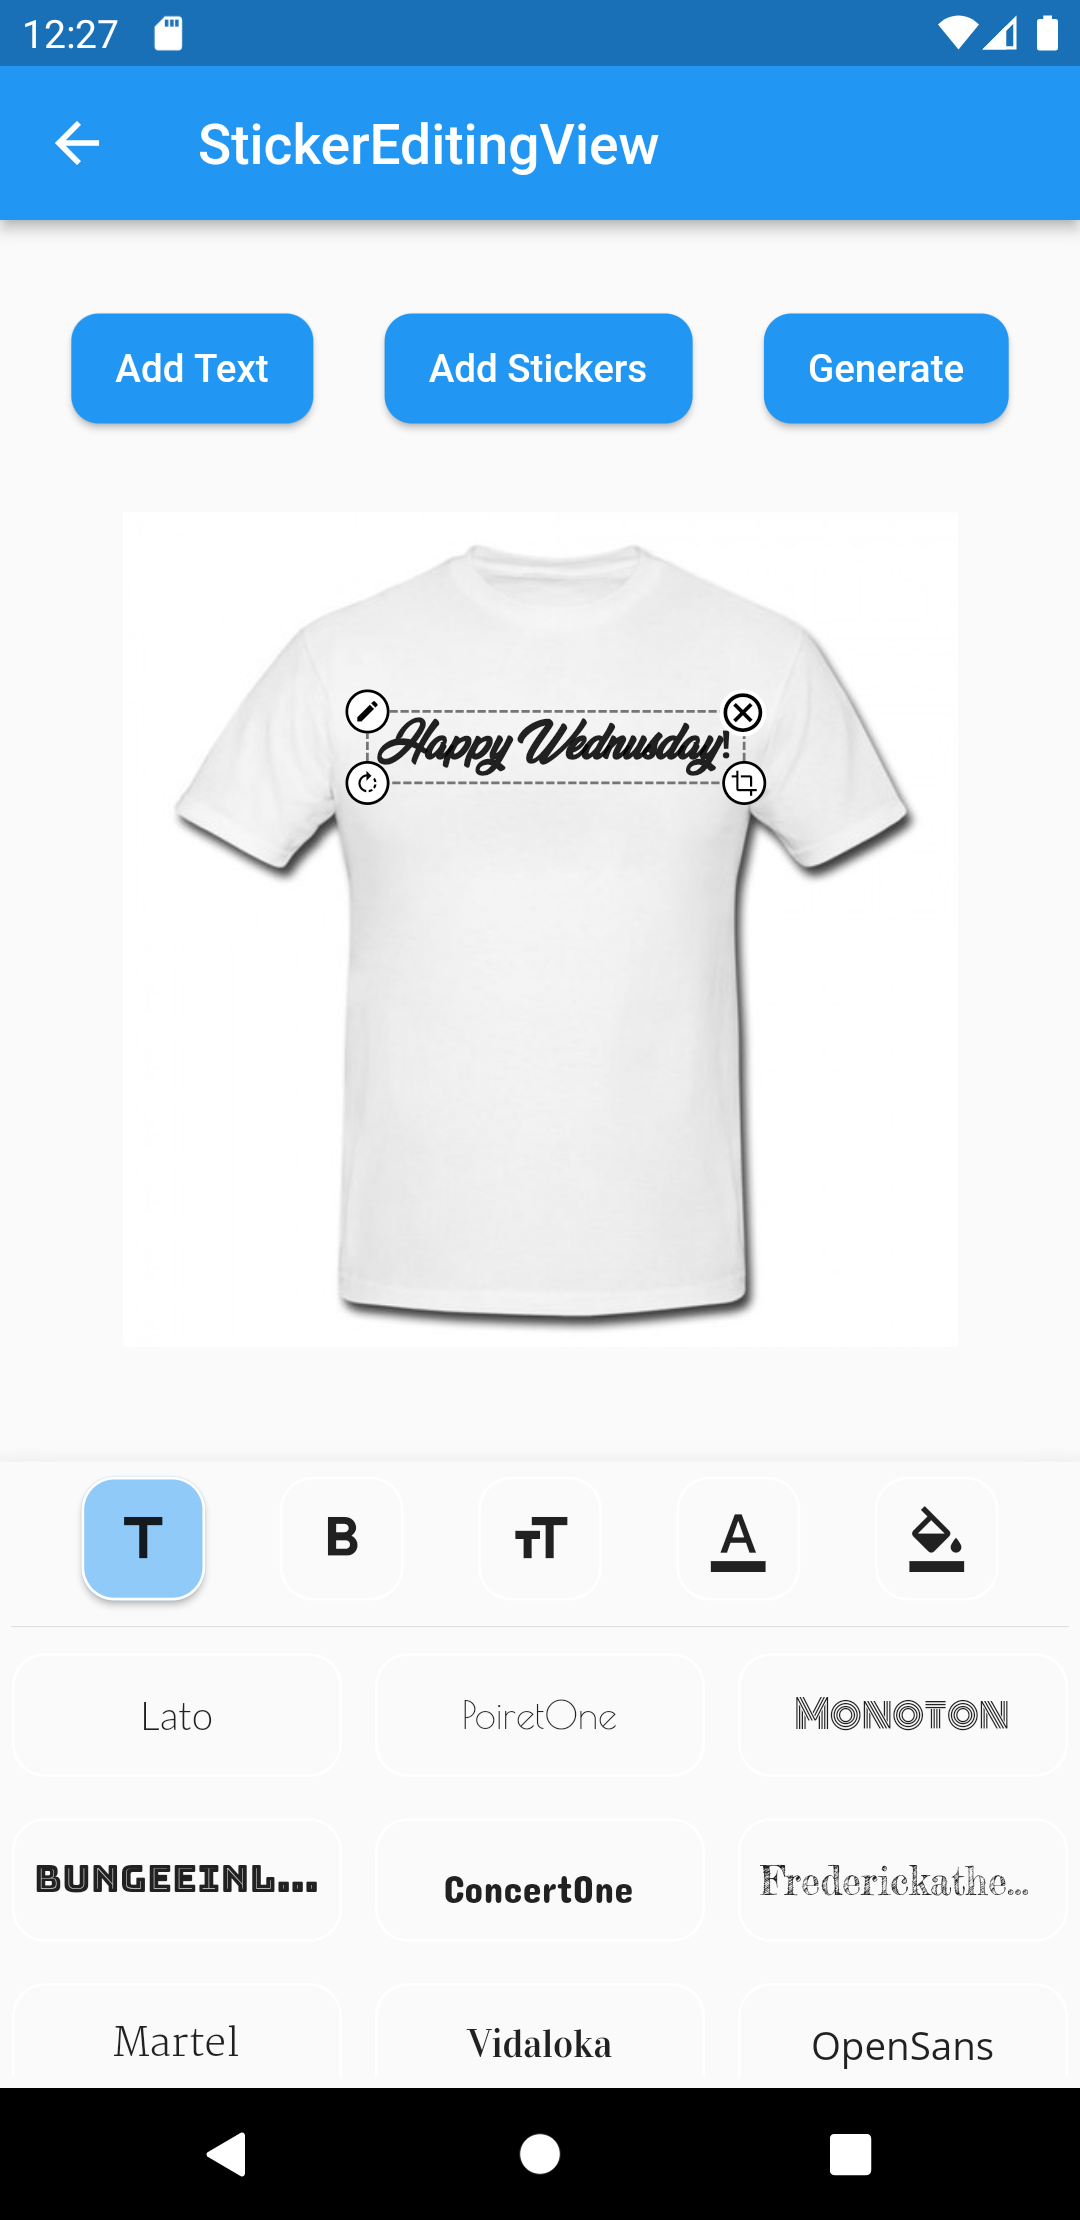
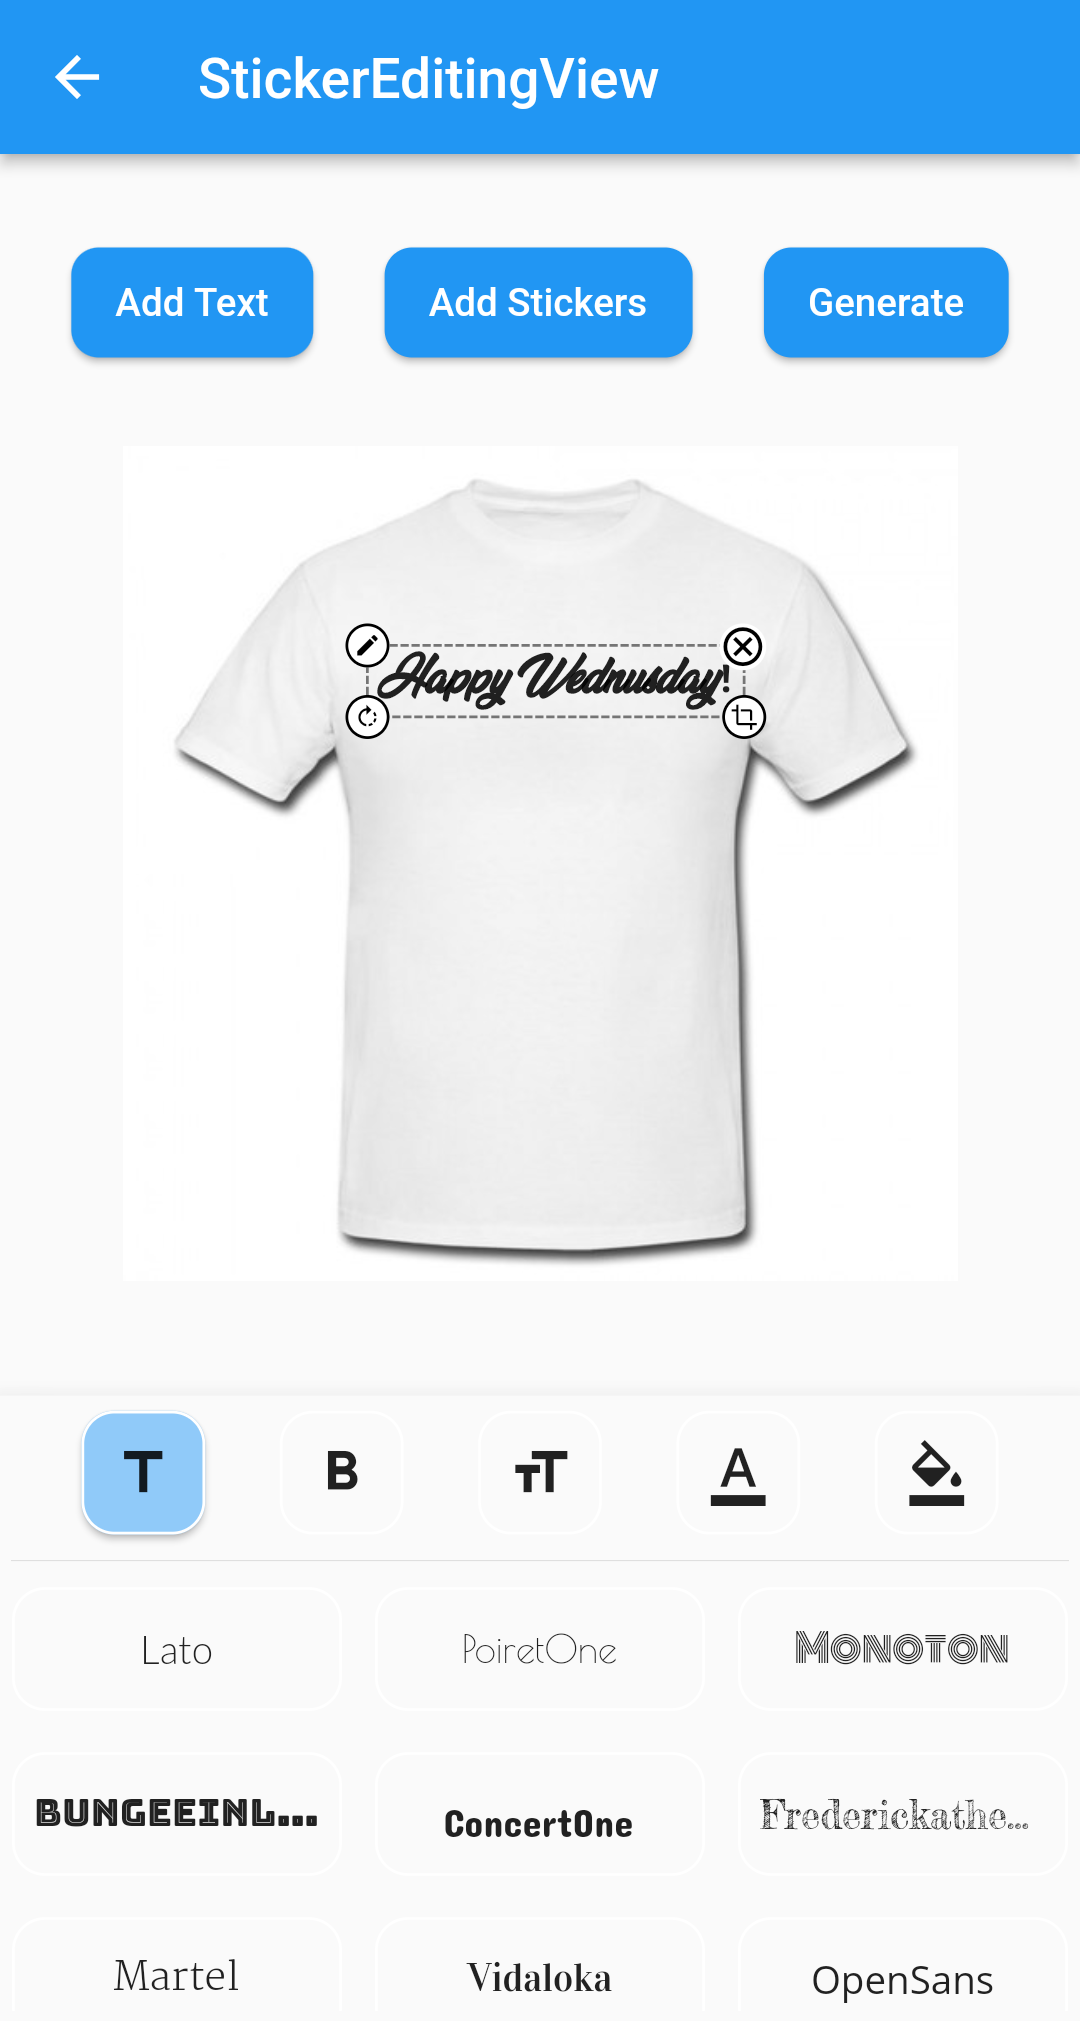
readme file and text editor box issue solved

diff --git a/lib/stickereditor.dart b/lib/stickereditor.dart
@@ -35,10 +35,29 @@ class StickerEditingView extends StatefulWidget {
 
   /// Editor's assetsList List
   List<String>? assetList;
+
+  /// Editor's image type
+  bool isnetwork;
+
+  /// Editor's image
+  String imgUrl;
+
+  /// StickerEditor View Height
+  double? height;
+
+  /// StickerEditor View Width
+  double? width;
+
+  /// Create a [StickerEditingBox] widget
+  ///
   StickerEditingView(
       {Key? key,
       required this.fonts,
       this.palletColor,
+      this.height,
+      this.width,
+      required this.isnetwork,
+      required this.imgUrl,
       required this.assetList})
       : super(key: key);
 
@@ -48,7 +67,6 @@ class StickerEditingView extends StatefulWidget {
 
 class _StickerEditingViewState extends State<StickerEditingView> {
   // image source
-  String backgroundImage = 'assets/t-shirt.jpeg';
   ScreenshotController screenshotController = ScreenshotController();
   String fileName = '';
   String imagePath = '';
@@ -97,15 +115,34 @@ class _StickerEditingViewState extends State<StickerEditingView> {
               child: Screenshot(
                 controller: screenshotController,
                 child: SizedBox(
-                  height: height * .40,
-                  width: width * .78,
+                  height: widget.height ?? height * .40,
+                  width: widget.width ?? width * .78,
                   child: Stack(
                     children: [
-                      Image.asset(
-                        'assets/t-shirt.jpeg',
-                        package: 'stickereditor',
-                        height: height * .40,
-                        width: width * .78,
+                      widget.isnetwork
+                          ? Image.network(
+                              widget.imgUrl,
+                              height: widget.height ?? height * .40,
+                              width: widget.width ?? width * .78,
+                              fit: BoxFit.cover,
+                            )
+                          : Image.asset(
+                              widget.imgUrl,
+                              height: widget.height ?? height * .40,
+                              width: widget.width ?? width * .78,
+                              fit: BoxFit.cover,
+                            ),
+                      InkWell(
+                        onTap: () {
+                          setState(() {
+                            for (var element in newStringList) {
+                              element.isSelected = false;
+                            }
+                            for (var e in newimageList) {
+                              e.isSelected = false;
+                            }
+                          });
+                        },
                       ),
                       ...newStringList.map((v) {
                         return TextEditingBox(
@@ -141,6 +178,29 @@ class _StickerEditingViewState extends State<StickerEditingView> {
                       }).toList(),
                       ...newimageList.map((v) {
                         return StickerEditingBox(
+                            onCancel: () {
+                              int index = newimageList
+                                  .indexWhere((element) => v == element);
+
+                              newimageList.removeAt(index);
+                            },
+                            onTap: () {
+                              if (!v.isSelected) {
+                                setState(() {
+                                  for (var element in newStringList) {
+                                    element.isSelected = false;
+                                  }
+                                  for (var e in newimageList) {
+                                    e.isSelected = false;
+                                  }
+                                  v.isSelected = true;
+                                });
+                              } else {
+                                setState(() {
+                                  v.isSelected = false;
+                                });
+                              }
+                            },
                             boundWidth: width * .70,
                             boundHeight: height * .30,
                             pictureModel: v);
@@ -195,10 +255,22 @@ class _StickerEditingViewState extends State<StickerEditingView> {
                         Future.delayed(const Duration(milliseconds: 200),
                             () async {
                           imagePath = '';
+                          if (Platform.isMacOS) {
+                            imagePath =
+                                (await getApplicationDocumentsDirectory())
+                                    .path
+                                    .trim(); //from path_provide package
+                          } else if (Platform.isAndroid) {
+                            imagePath = (await getExternalStorageDirectory())!
+                                .path
+                                .trim(); //from path_provide package
 
-                          imagePath = (await getExternalStorageDirectory())!
-                              .path
-                              .trim(); //from path_provide package
+                          } else if (Platform.isIOS) {
+                            imagePath =
+                                (await getApplicationDocumentsDirectory())
+                                    .path
+                                    .trim();
+                          }
 
                           Random().nextInt(15000);
                           fileName = '${Random().nextInt(15000)}.png';
@@ -254,6 +326,7 @@ class _StickerEditingViewState extends State<StickerEditingView> {
                         e.isSelected = false;
                       }
                       textModel!.isSelected = true;
+                      textModel.name = dailogTextController.text.trim();
                       newStringList.add(textModel);
                     });
                     Navigator.pop(context);

diff --git a/lib/src/widgets/text_widget/text_box.dart b/lib/src/widgets/text_widget/text_box.dart
@@ -9,14 +9,35 @@ import 'textstyle_editor.dart';
 
 // ignore: must_be_immutable
 class TextEditingBox extends StatefulWidget {
+  // TextModel for your text
   final TextModel newText;
+
+  /// Your widget should be move within this [boundWidth]
   final double boundWidth;
+
+  /// Your widget should be move within this [boundHeight]
   final double boundHeight;
+
+  /// For Visibility of editing border
   bool isSelected;
+
+  /// Total Colors option that you want to give to user
   List<Color>? palletColor;
+
+  /// Total Fonts option that you want to give to user
   final List<String> fonts;
+
+  /// If you use onTap then you Have to manage IsSelected field in TextModel and [isSelected]
   final Function()? onTap;
+
+  /// If you use onCancel then you Have to manage IsSelected field in TextModel and [isSelected]
   final Function()? onCancel;
+
+  /// Create a [TextEditingBox] widget
+  ///
+  /// [TextModel] detail of your picture
+  /// [onTap] callback function that called when you tap on [TextEditingBox]
+  /// [onCancel] callback function that called when you tap on Cross icon in [TextEditingBox] border
   TextEditingBox(
       {Key? key,
       required this.newText,
@@ -163,13 +184,16 @@ class _TextEditingBoxState extends State<TextEditingBox> {
                       if (widget.onCancel != null) {
                         widget.onCancel!();
                       }
-                      if (widget.isSelected) {
-                        widget.isSelected = false;
-                        widget.newText.isSelected = false;
-                      } else {
-                        widget.isSelected = true;
-                        widget.newText.isSelected = true;
-                      }
+
+                      setState(() {
+                        if (widget.isSelected) {
+                          widget.isSelected = false;
+                          widget.newText.isSelected = false;
+                        } else {
+                          widget.isSelected = true;
+                          widget.newText.isSelected = true;
+                        }
+                      });
                     },
                     child: widget.isSelected
                         ? Container(
@@ -275,7 +299,7 @@ class _TextEditingBoxState extends State<TextEditingBox> {
         builder: (context) {
           return Container(
             padding: const EdgeInsets.all(4),
-            height: height * .3,
+            height: height * .35,
             child: TextStyleEditor(
               fonts: widget.fonts,
               paletteColors: palletColor,

diff --git a/lib/src/widgets/sticker_widget/sticker_box.dart b/lib/src/widgets/sticker_widget/sticker_box.dart
@@ -3,16 +3,32 @@ import 'package:flutter/material.dart';
 import 'package:stickereditor/src/model/picture_model.dart';
 
 class StickerEditingBox extends StatefulWidget {
+  /// Your widget should be move within this [boundWidth]
   final double boundWidth;
+
+  /// Your widget should be move within this [boundHeight]
   final double boundHeight;
+
+  /// This picture model where you pass necessary fields
   final PictureModel pictureModel;
+
+  /// If you use onCancel then you Have to manage IsSelected field in PicturModel
   final Function()? onCancel;
 
+  /// If you use onTap then you Have to manage IsSelected field in PicturModel
+  final Function()? onTap;
+
+  /// Create a [StickerEditingBox] widget
+  ///
+  /// [pictureModel] detail of your picture
+  /// [onTap] callback function that called when you tap on [StickerEditingBox]
+  /// [onCancel] callback function that called when you tap on Cross icon in [StickerEditingBox] border
   const StickerEditingBox(
       {Key? key,
       required this.boundWidth,
       required this.boundHeight,
       required this.pictureModel,
+      this.onTap,
       this.onCancel})
       : super(key: key);
 
@@ -62,10 +78,14 @@ class _StickerEditingBoxState extends State<StickerEditingBox> {
               });
             },
             onTap: () {
-              if (widget.pictureModel.isSelected) {
-                setState(() => widget.pictureModel.isSelected = false);
+              if (widget.onTap == null) {
+                if (widget.pictureModel.isSelected) {
+                  setState(() => widget.pictureModel.isSelected = false);
+                } else {
+                  setState(() => widget.pictureModel.isSelected = true);
+                }
               } else {
-                setState(() => widget.pictureModel.isSelected = true);
+                widget.onTap!();
               }
             },
             child: Stack(

diff --git a/example/lib/main.dart b/example/lib/main.dart
@@ -20,7 +20,6 @@ class _MyAppState extends State<MyApp> {
 
   @override
   Widget build(BuildContext context) {
-    // return const MaterialApp(home: TextEditingBoxScreen());
     return const MaterialApp(
         debugShowCheckedModeBanner: false, home: HomePage());
   }
@@ -53,6 +52,7 @@ class _HomePageState extends State<HomePage> {
                               const StickerEditingViewScreen()));
                 },
                 child: const Text('StickerEditingViewScreen')),
+            const SizedBox(height: 10),
             ElevatedButton(
                 onPressed: () {
                   Navigator.push(
@@ -61,6 +61,7 @@ class _HomePageState extends State<HomePage> {
                           builder: (context) => const TextEditingBoxScreen()));
                 },
                 child: const Text('TextEditingBox')),
+            const SizedBox(height: 10),
             ElevatedButton(
                 onPressed: () {
                   Navigator.push(

diff --git a/example/lib/view.dart b/example/lib/view.dart
@@ -13,6 +13,7 @@ class StickerEditingViewScreen extends StatefulWidget {
 
 class _StickerEditingViewScreenState extends State<StickerEditingViewScreen> {
   final List<String> stickerList = <String>[];
+  String backgroundImageUrl = 'assets/t-shirt.jpeg';
 
   @override
   void initState() {
@@ -27,6 +28,10 @@ class _StickerEditingViewScreenState extends State<StickerEditingViewScreen> {
         title: const Text('StickerEditingView'),
       ),
       body: StickerEditingView(
+        isnetwork: false,
+        height: 300,
+        width: 300,
+        imgUrl: backgroundImageUrl,
         fonts: fonts,
         palletColor: colorPallet,
         assetList: stickerList,

diff --git a/lib/src/widgets/custom_button.dart b/lib/src/widgets/custom_button.dart
@@ -7,7 +7,7 @@ class CustomeWidgets {
   }) {
     return MaterialButton(
         height: 40,
-        minWidth: 50,
+        minWidth: 100,
         shape: RoundedRectangleBorder(borderRadius: BorderRadius.circular(10)),
         color: Colors.blue,
         disabledColor: Colors.grey,

diff --git a/lib/src/model/picture_model.dart b/lib/src/model/picture_model.dart
@@ -2,7 +2,9 @@ class PictureModel {
   String stringUrl;
   double top;
   bool isSelected;
+  /// 
   double scale;
+  // This is your Image link type
   bool isNetwork;
   double left;
 

diff --git a/README.md b/README.md
@@ -1,3 +1,8 @@
+# Sticker Editor
+A flutter plugin for iOS, Android and Mac for Rotate, Scaling, Moving and Editing Text, Photo, Stickers
+
+![](./assets/readme/demo.gif) 
+
 <br>
 
 | Sticker Editor                           |                                             |
@@ -13,24 +18,38 @@
 | ![](./assets/readme/only_picture.png) | ![](./assets/readme/only_text.png) |
 
 <br>
-
  
 
-A flutter package which will help you to create editable and scalable text or Sticker widget that can be dragged around the area you given in screen.
+A flutter package Sticker Editor which will help you to create editable and scalable text or sticker widget that can be dragged around the area you given in screen.
 
 [![License: MIT](https://img.shields.io/badge/License-MIT-green.svg)](https://opensource.org/licenses/MIT)
 
 ## Features 💚
 
 - Manually Control the position of the widget along with drags.
+- You can bound the dragarea of your widget using boundHeight and boundWidth parameters
+- onTap and onCancel function where user's can use there own function
 - You can resizes widget using scaling function
 - Highly customizable
-- You can use whole sticker view or particular widget
+- You can use whole sticker view or particular widgets
+## Installation
 
+First, add `stickereditor` as a [dependency in your pubspec.yaml file](https://flutter.dev/using-packages/).
+
+### MacOs
+Fore NetworkImage, macOS needs you to request a specific entitlement in order to access the network. To do that open macos/Runner/DebugProfile.entitlements and add the following key-value pair.
+```xml
+<key>com.apple.security.network.client</key>
+<true/>
+```
 ## How to use
 - Sticker View 
 ```Dart
 StickerEditingView(
+  isnetwork: false,
+  height: 300,
+  width: 300,
+  imgUrl: backgroundImageUrl,
   fonts: fonts,
   palletColor: colorPallet,
   assetList: stickerList,
